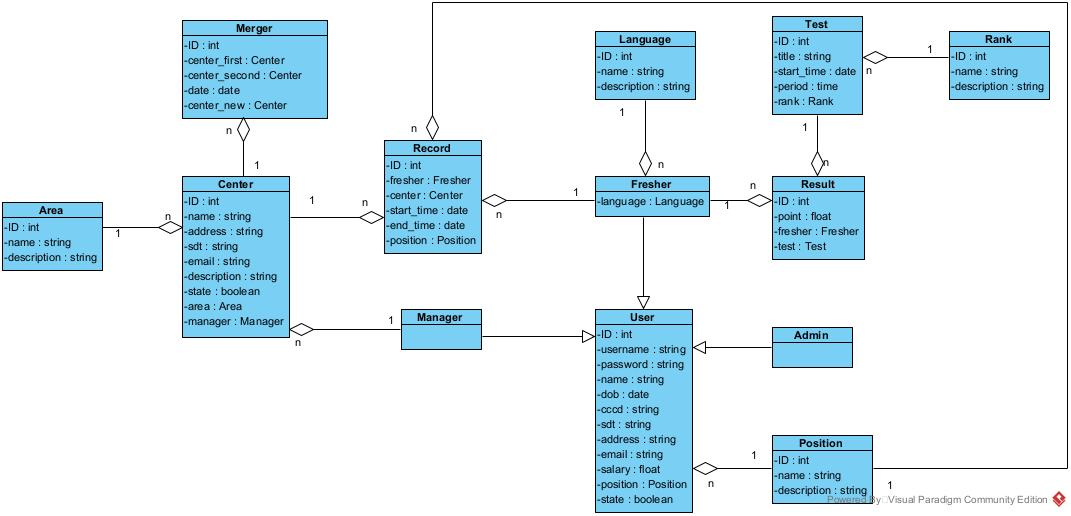
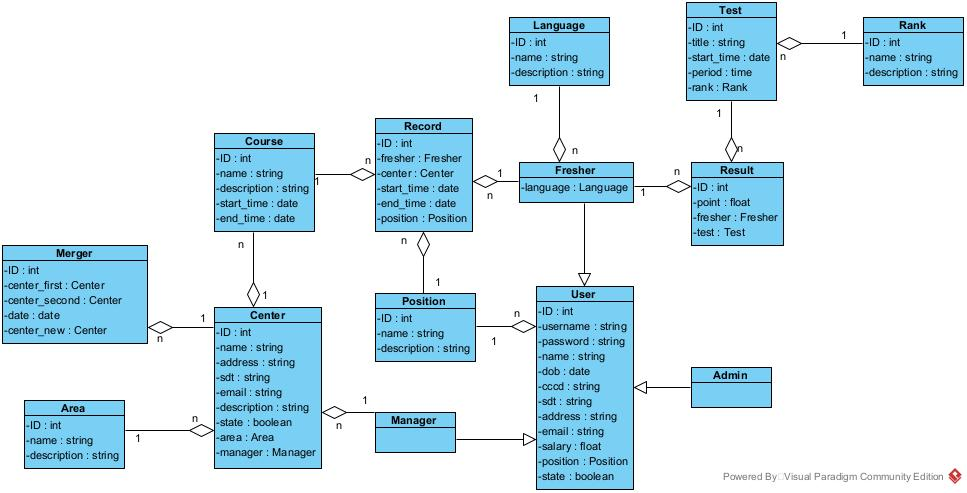
update

diff --git a/fresher-management/src/main/java/com/example/fresher_management/entity/Course.java b/fresher-management/src/main/java/com/example/fresher_management/entity/Course.java
@@ -1,0 +1,32 @@
+package com.example.fresher_management.entity;
+
+import lombok.AllArgsConstructor;
+import lombok.Getter;
+import lombok.NoArgsConstructor;
+import lombok.Setter;
+
+import javax.persistence.*;
+import java.sql.Date;
+
+@Getter
+@Setter
+@AllArgsConstructor
+@NoArgsConstructor
+@Entity
+@Table(name = "course")
+public class Course {
+
+	@Id
+	@GeneratedValue(strategy = GenerationType.IDENTITY)
+	private int id;
+	private String name;
+	private String description;
+	private Date start_time;
+	private Date end_time;
+	
+	@JoinColumn(name = "center_id")
+	@ManyToOne(fetch = FetchType.EAGER, cascade = CascadeType.PERSIST)
+	private Center center;
+	
+
+}
